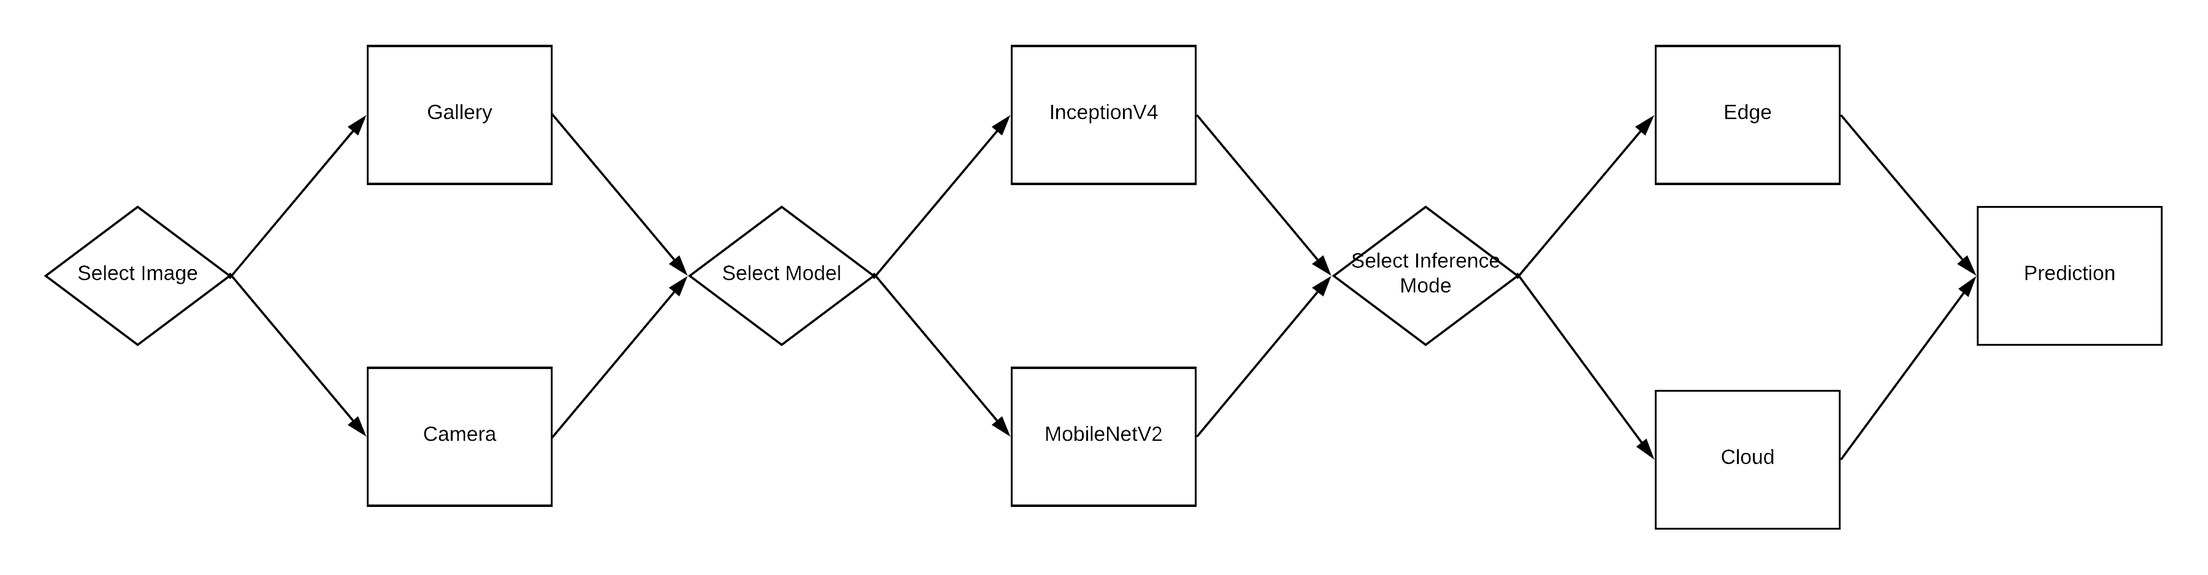
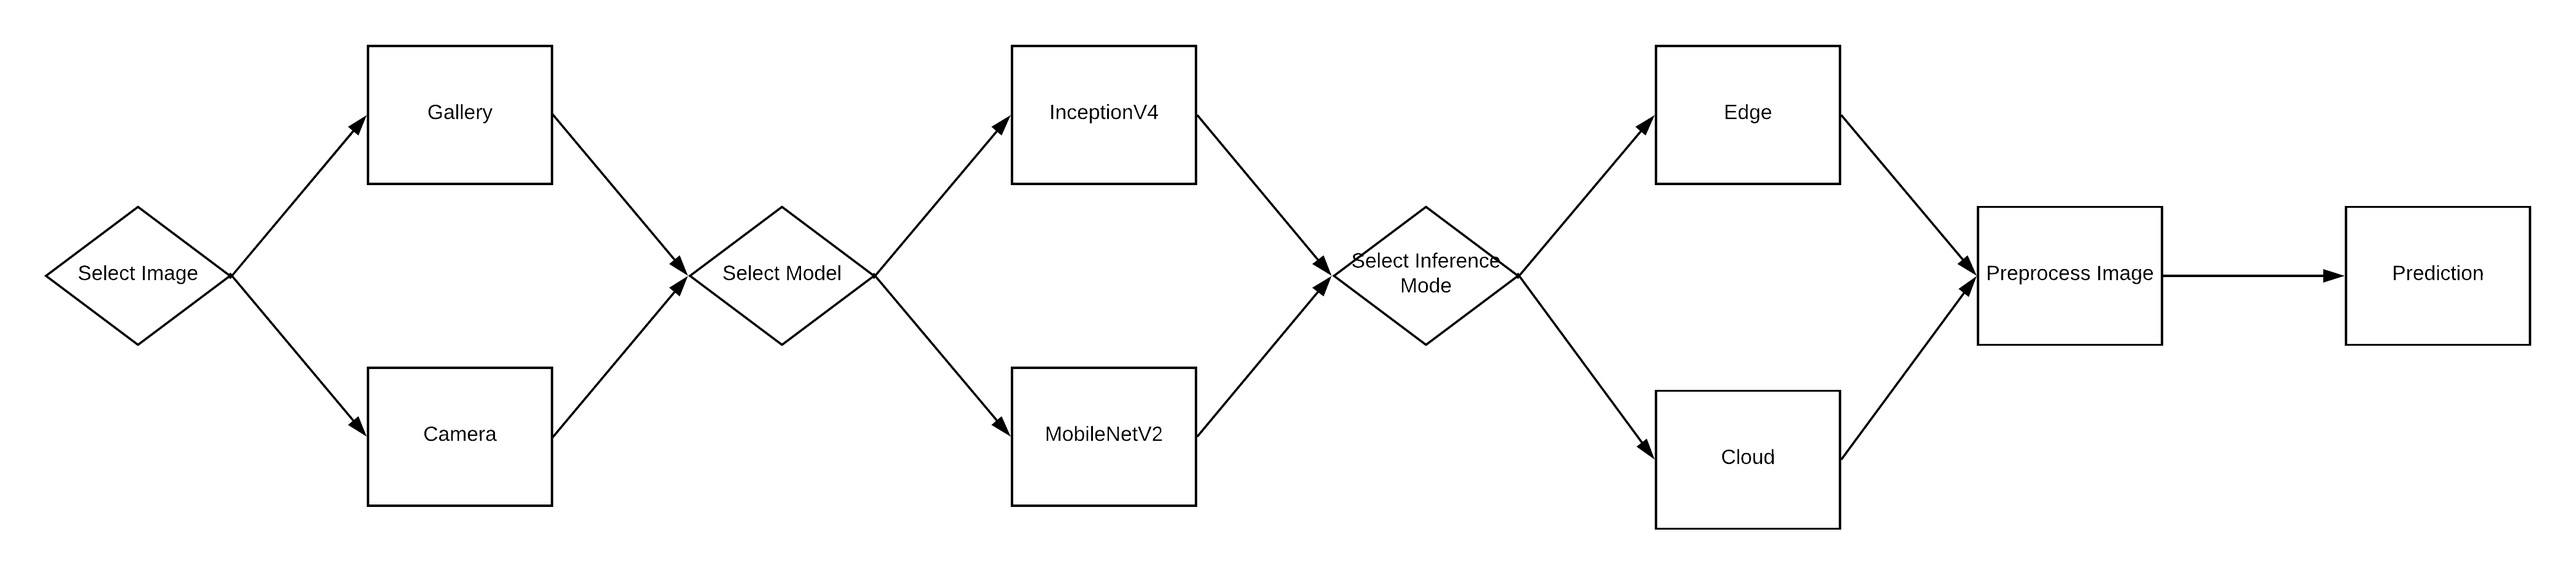
Changes 27.11.18

diff --git a/kapitel4.tex b/kapitel4.tex
@@ -1,9 +1,7 @@
 \chapter{Experiments}
 This chapter deals with the experiments, their design, execution and results.
-\begin{itemize}
-    \item Was wird getestet?
-\end{itemize}
 \section{Experimental Design}
+This section deals the specification of the Android benchmark app, used hardware, used framework, used model and how the measurements are conducted. 
 \begin{figure}[H]
 \centering
 \input{./Bilder/Exp_design.tex}
@@ -24,9 +22,9 @@ This chapter deals with the experiments, their design, execution and results.
 \end{figure}
 \subsection{Hardware}
 \subsubsection{Edge}
-As the edge device we will use a state of the art android phone. 
+As the edge device we will use the Oneplus 6T. This state of the art smartphones is powered by Qualcomm Snapdragon 845 CPU(Octa-core, up to 2.8 GHz), Adreno 630 GPU, 8 GB of memory and runs on OxygenOS, which is based on Android 9.
 \subsubsection{Cloud}
-The Nvidia DGX-1 will serve as the cloud-backend for the experiments. This server consists of 8$\times$Tesla V100 providing 1000 TFLOPS as well as 256 GB GPU memory and 512 system memory.
+The Nvidia DGX-1 will serve as the cloud-backend for the experiments. This server consists of 8$\times$Tesla V100 providing 1000 TFLOPS as well as 256 GB GPU memory and 512 GB system memory.
 \subsection{Frameworks}
 Two open-source frameworks will be used for the experiments.
 \subsubsection{TensorFlow Lite}
@@ -48,11 +46,24 @@ MobileNetV2 is a successor of MobileNetV1 and is "specifically tailored for mobi
 constrained environments" \cite{DBLP:journals/corr/abs-1801-04381}. The authors do this by "significantly decreasing the number of operations and the memory needed while retaining the same accuracy"  \cite{DBLP:journals/corr/abs-1801-04381} and introducing a new layer module called "the
 inverted residual with linear bottleneck" \cite{DBLP:journals/corr/abs-1801-04381}.
 
-\subsubsection{Resnet/Inception}
+\subsubsection{Inception V4}
+Inception V4 is a large image classification model with high accuracy but also with a high number of parameters leading to higher inference times than MobileNet.
 %%Insert Tabelle mit overview über model specs
+\begin{table}[]
+\caption{Overview of used models}
+\begin{tabular}{|l|l|l|l|l|}
+\hline
+\rowcolor[HTML]{C0C0C0} 
+ & {\color[HTML]{000000}Parameters} & {\color[HTML]{000000} Top-5 Accuracy \cite{modelspecs}} & Input Size & TF Lite Model Size \\ \hline
+\cellcolor[HTML]{C0C0C0}{\color[HTML]{000000} Inception V4} & wet & 95.1\% & 299 & 107.7 MB \\ \hline
+\cellcolor[HTML]{C0C0C0}{\color[HTML]{000000} Mobilenet V2 1.0} & 3470000 \cite{mobilenetspecs}& 90.6\% & 224 & 14.0 MB \\ \hline
+\cellcolor[HTML]{C0C0C0}\begin{tabular}[c]{@{}l@{}}Mobilenet V2 1.0\\ quantized\end{tabular} & 3470000 \cite{mobilenetspecs}& 89.9\% & 224 & 3.4 MB \\ \hline
+\end{tabular}
+\end{table}
+
 
 For the experiments we both evaluate the normal float version as well as the quantized version using int8.
-\subsection{Android Benchmark application}
+\subsection{Android Benchmark Application}
 In order to perform the inference process on the edge devices we developed a benchmark android application using Kotlin. 
 
 \begin{figure}[H]
@@ -61,13 +72,53 @@ In order to perform the inference process on the edge devices we developed a ben
 \caption{Flowchart of the benchmark Application}
 \label{fig:app}
 \end{figure}
-In figure \ref{fig:app} the workflow to get perform the inference is seen. First, a image needs to be selected, either an existing one from the gallery or a new one shot with the camera of the phone. Afterwards the image classification model needs to be chosen. Finally the user selects whether the inference should be performed on the cloud-backend or directly on the edge device, in this case a android phone. After the inference is finished the labels with the highest probabilities are presented to the user as the prediction for the given image.
+In figure \ref{fig:app} the workflow to get perform the inference is seen. First, a image needs to be selected, either an existing one from the gallery or a new one shot with the camera of the phone. Afterwards the image classification model needs to be chosen. Now the user selects whether the inference should be performed on the cloud-backend or directly on the edge device, in this case a android phone. Afterwards the selected image needs to be preprocessed according to the selected model, inference mode (edge/cloud) and for the case of cloud inference, if the image should be preprocessed on the cloud or on the edge. Finally the inference is performed resulting and after finishing the labels with the highest probabilities are presented to the user as the prediction for the given image. The image preprocessing step and the inference step are seperated to allow better measurements of these steps.
+\subsubsection{Edge Inference}
+
+\subsubsection{Cloud Inference}
 \section{Instantiation}
-\begin{itemize}
-    \item Wie wurde was gtestestet?
-    \item wie metriken gemessen
-    \item wo metriken gemessen
-\end{itemize}
+We run parameter configuration 100 times to reduce 
+We change the configurations of the following parameters:
+\paragraph{Image Size}
+Image Size: We evaluate the performance of the small(YxY), medium(YxY) and large(YxY) images. This way the effect of image size on the performance of the preprocessing step can assessed.
+\paragraph{Batch Size}
+We experiment with the following batch sizes: 1, 2, 4 , 8, 16, 32, 64.
+\paragraph{NNAPI}
+The Android Neural Network API (NNAPI)
+is "designed for running computationally intensive operations for machine learning on mobile devices" \cite{NNAPI} and can be used by TensorFlow Lite to improve inference performance. Therefore we take a look into the effect of this framework.
+\paragraph{GPU Usage}
+Since the latest release of TensorFlow Lite(version xxx) GPU usage on Android is supported. 
+
+\subsection{Measurements}
+We conduct the measurement either directly in the source code or by using Android Studio Profiler.
+\subsubsection{Inference Time}
+To measure inference time we need to  distinguish between edge and cloud inference. To measure edge inference we measure the time the TensorFlow Lite interpreter needs to run the inference operation on the loaded model given the input image.
+To measure the cloud inference time we need to measure two latencies. The first latency is the server latency. This server latency describes the time difference between the point where TensorFlow Serving receives the inference request and the point in time where TensorFlow Serving send the response back to the client.
+
+
+
+The second latency is called the total latency and describes the time difference between the moment the client sent the request to TensorFlow Serving and the moment it received its response, including the network latency.
+These two latencies are illustrated in figure \ref{fig:serverLat}.
+The total latency is be measured by simply measure the time needed to call the \emph{predict} function of TensorFlow Serving.
+Since TensorFlow Serving does not output the server latency, we needed to tweak the source code of gRPC, which is the underlying protocol of TensorFlow Serving. gRPC already logs this latency, so we adjust the source code to out this latency when a call to TensorFlow Serving is finished, repackage the source code and change to dependencies of TensorFlow Serving accordingly.
+\begin{figure}[H]
+\centering
+\includegraphics[width=0.7\textwidth]{./Bilder/server_latency.png}
+\caption{Measurement of server and total latency for cloud inference}
+\label{fig:serverLat}
+\end{figure}
+\subsubsection{Energy Consumption}
+Since Android Studio Profiler only estimates the energy consumption in the form of low, medium and high, the tool is not fit to provide empiric measurements. The Trepn Power Profiler would provide such measurements, but does not support the device used for the experiments (Oneplus 6T).
+\subsubsection{CPU Usage}
+
+\subsubsection{Memory Usage}
+The Memory Profiler is part of Android Studio Profiler and shows the memory consumption of the app it is profiling. Memory allocations by the operating system or other apps are not recorded. Besides recording the total amount of memory allocated the profiler also tracks the different categories, for example memory allocated by Java/Kotlin code.
+\subsubsection{GPU Usage}
+If a GPU or a another accelator is available their usage is of interest.
+\subsubsection{Throughput}
+In order to measure throughput we 
+\subsubsection{Data Consumption}
+Android Studio Profiler provides a tool named Network Profiler, which displays all the data sent and recieved.
 \section{Results and Evaluation}
 \begin{itemize}
     \item Haufen Graphen

diff --git a/kapitel3.tex b/kapitel3.tex
@@ -25,7 +25,7 @@ In order to increase this performance various accelerators like better GPUs, TPU
 \subsubsection{Cloud Deployment}
 While the breakthroughs in deep learning is very interesting for AI applications on the edge devices, the computational demand needed for edge deployment often exceeds the available power to be viable.
 That is why the option of outsourcing the models to a cloud-backend has become a popular solution in the recent years.
-Cloud-backend offer a huge amount of computational power, especially suitable for deep learning in the form of GPUs,TPUs, etc..
+Cloud-backend offer a huge amount of computational power, especially suitable for deep learning in the form of GPUs, TPUs, etc.
 
 
 The big downside of cloud-based inference is the needed network connection, in particular for edge devices such as cars, where a reliable network connection can often not be guaranteed for example in rural areas. Hence this is not a viable solution for applications that are critical like autonomous driving.
@@ -45,6 +45,7 @@ In the following the two most popular networks get analyzed.
     \item hidden units
     \item input size
     \item quantisation
+    \item number of operations
 \end{itemize}
 \subsubsection{Convolutional Neural Network}
 This special subclass of neural network achieved wide success in the field of object recognition and detection in images. Convolutional Neural Networks (CNN)
@@ -67,7 +68,9 @@ GRU, LTSM
 
 
 \section{Performance Model}
-All the aspects of both hardware and model have impact on the performance, thus are the inputs of the performance model (see figure \ref{fig:perfmodel}). These input affect various performance metrics, of which inference time and throughput are the most important ones for realtime AI applications. But as the hardware on edge devices is limited and most of the times many applications need to run in parallel, low usages of the other metrics are vital as well.
+All the aspects of both hardware and model have impact on the performance, thus are the inputs of the performance model (see figure \ref{fig:perfmodel}). These inputs affect various performance metrics, of which inference time and throughput are the most important ones for realtime AI applications. But as the hardware on edge devices is limited and most of the times many applications need to run in parallel, low usages of the other metrics are vital as well.
+%5WHAT ABOUT ACCURACY?
+While accuracy is one of the most important metrics for computer vision networks, it is only affected by the characteristics of the model and not by the deployment environment. Therefore we do not focus on accuracy in this thesis.
 \begin{figure}[H]
 \centering
 \includegraphics[width=0.9\textwidth]{./Bilder/trade_offs.png}
@@ -76,6 +79,7 @@ All the aspects of both hardware and model have impact on the performance, thus 
 \end{figure}
 \subsection{Performance Metrics}
 Several metrics are important to measure the inference performance.
+ 
 \subsubsection{Inference Time}
 Inference time describes the time needed from requesting a prediction from a deep learning model given an specific input until getting the prediction.
 This metrics is essential for the performance, since AI application often need predictions in realtime.
@@ -89,6 +93,8 @@ Similar to CPU usage, inference should not occupy the whole memory of system or 
 If a GPU or a another accelator is available their usage is of interest.
 \subsubsection{Throughput}
 In order to accomplish realtime AI a high enough throughput is essential. Therefore the number of processed predictions per second is a valuable metric.
+\subsubsection{Data Consumption}
+This metric is only relevant for cloud inference as the request has to be sent to the cloud-backend and the according response with prediction has to be sent back to the client. A high data consumption could slow down the inference time significantly if the up- and downstream of the network connection is too slow. 
 \begin{itemize}
     \item Unterschiede aus verschiedenen deployment optionen
 \end{itemize}

diff --git a/kapitel1.tex b/kapitel1.tex
@@ -26,4 +26,3 @@ TensorFlow Serving and TensorFlow Lite, both open-source, will service as the ex
 The rest of this thesis is structured as follows: Chapter 2 provides an outline over existing related work on this topic. Next, a methodology in the form of a performance model, that characterizes the deployment is proposed.
 Section 3 deals with the experiments, their design, execution and the evaluation of the results
 Finally, this thesis concludes with a conclusion and future work related to this thesis.
-\endinput 

diff --git a/Titel/titel-lmu.tex b/Titel/titel-lmu.tex
@@ -86,7 +86,7 @@ DER LUDWIG--MAXIMILIANS--UNIVERSITÄT MÜNCHEN\\
 Supervision: \hspace{.5cm} \=Prof. Dr. Dieter Kranzlmüller\\[2mm]
 Advisors:
 \>Dr. Andre Luckow\\[2mm]
-Date: \> 31. M\"arz 2019\\
+Date: \> March 31st, 2019\\
 \end{tabbing}
 \end{large}}\\
 \vspace{5mm}

diff --git a/ross17.tex b/ross17.tex
@@ -23,6 +23,8 @@
 \usepackage{xcolor}
 \usepackage{listings}
 \usepackage{tikz}
+%%%%%%%%%%%%
+
 %%%%%%%%%%%%%%%%
 \usetikzlibrary{calc,trees,positioning,arrows,chains,shapes.geometric,%
     decorations.pathreplacing,decorations.pathmorphing,shapes,%
